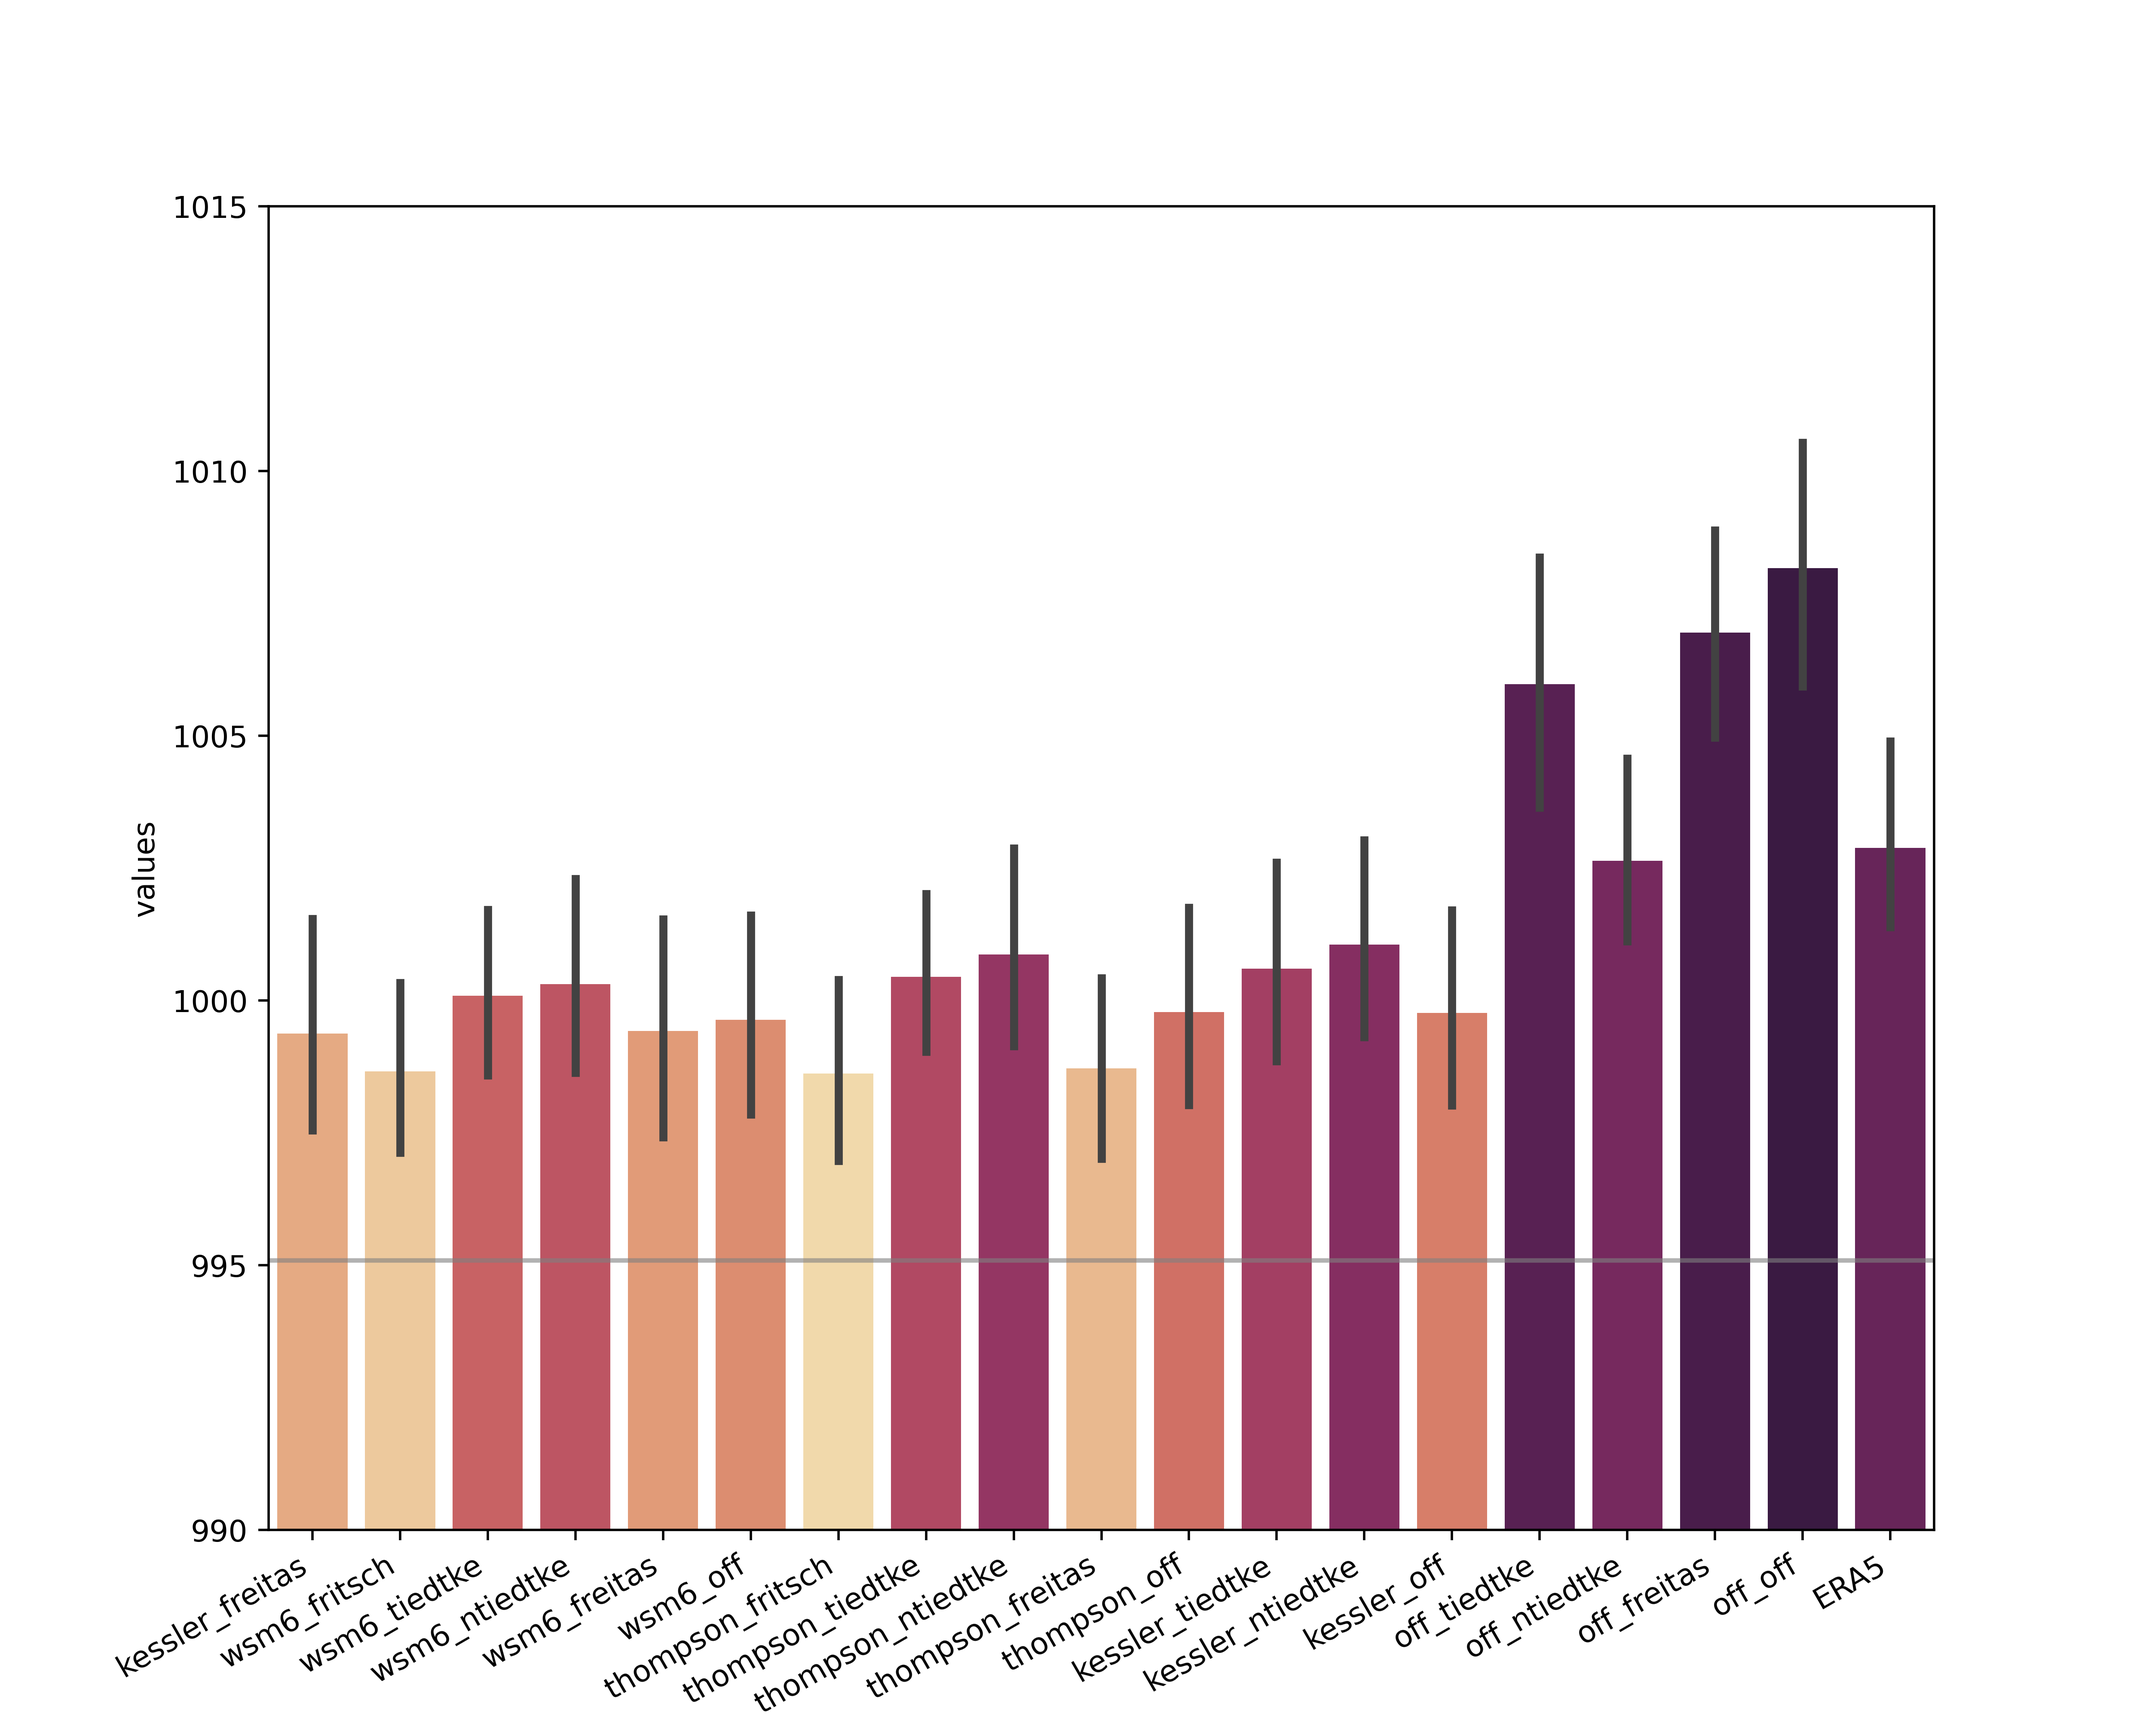
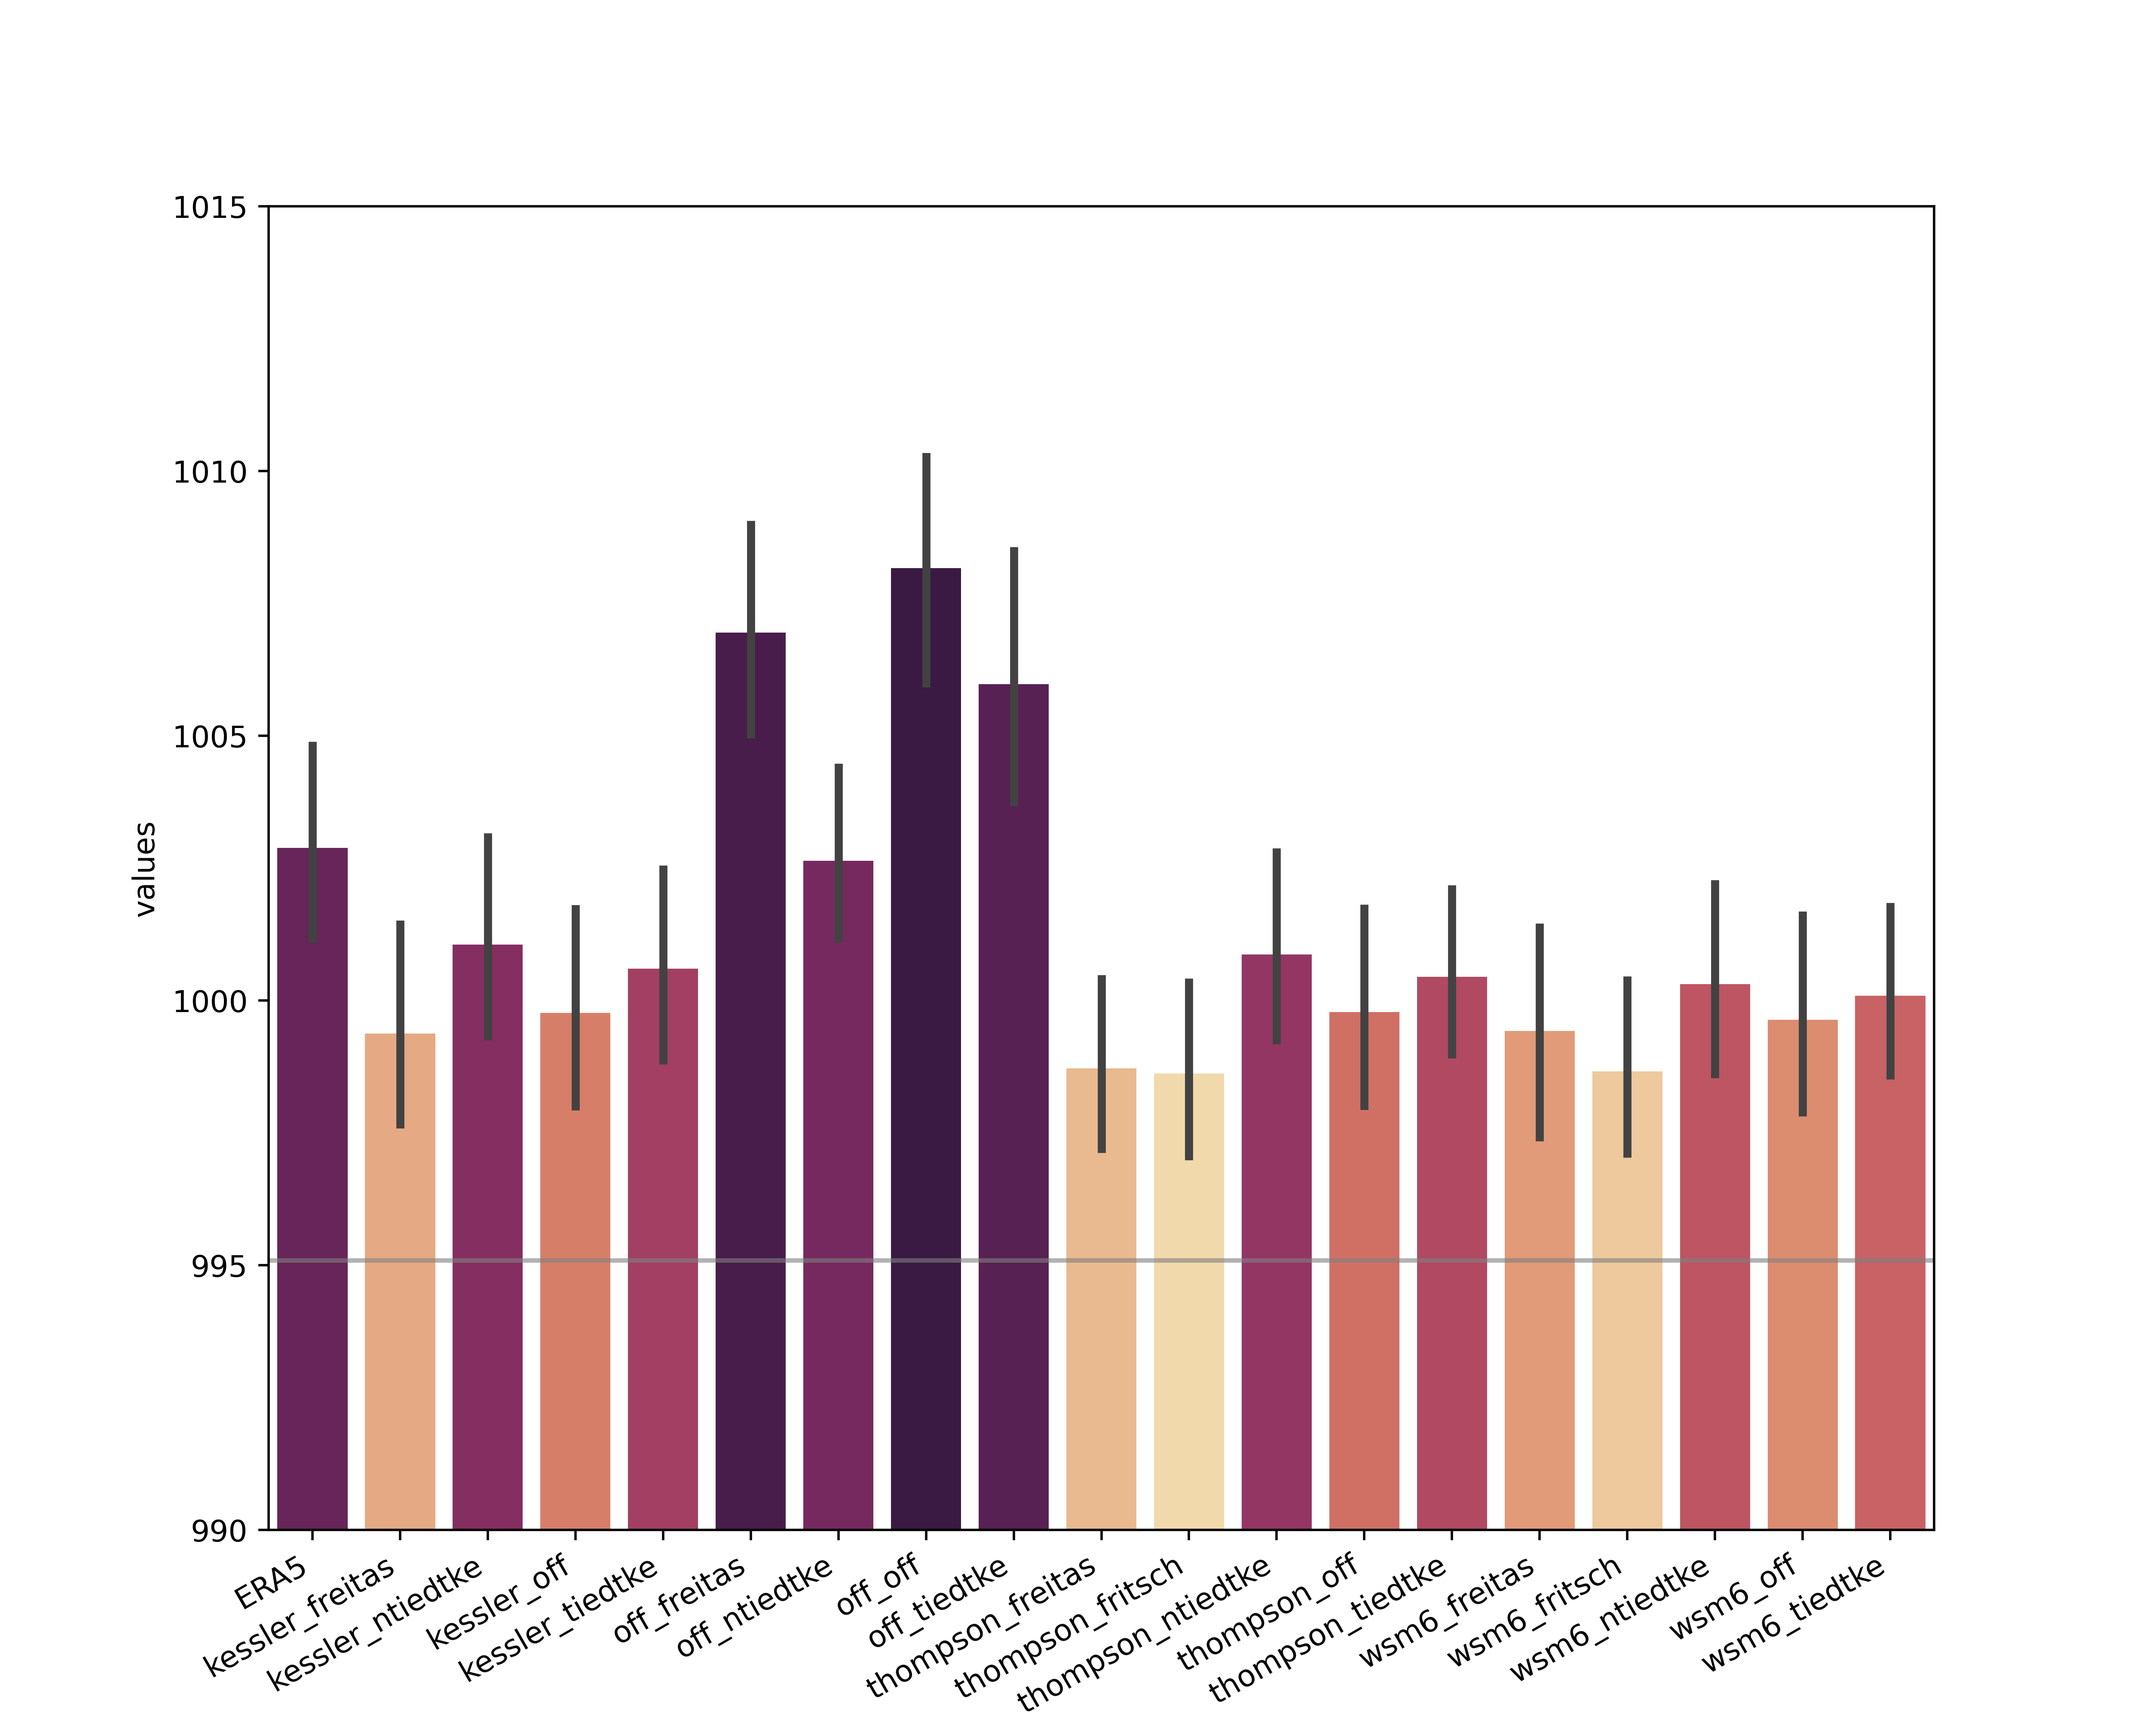
Update: alphabetical order

Changed region(s): [[0.0624, 0.2812, 0.4992, 1.0], [0.4368, 0.25, 0.9048, 1.0]]

diff --git a/src/validate_track.py b/src/validate_track.py
@@ -369,6 +369,10 @@ def main(tracks_directory):
     
     df_dist, df_min = minimum_slp_and_distance(
         tracks, tracks_directory,tracks_figures_directory, stats_directory)
+        
+    df_dist = df_dist.sort_index(axis=1, ascending=True)
+    df_min = df_min.sort_index(axis=1, ascending=True)
+    
     bar_plot_distances(df_dist, os.path.join(tracks_figures_directory, 'barplot-distances.png'))
     bar_plot_distances(df_min.drop(columns='Cowan'),
                         os.path.join(tracks_figures_directory, 'barplot-min-slp.png'))
